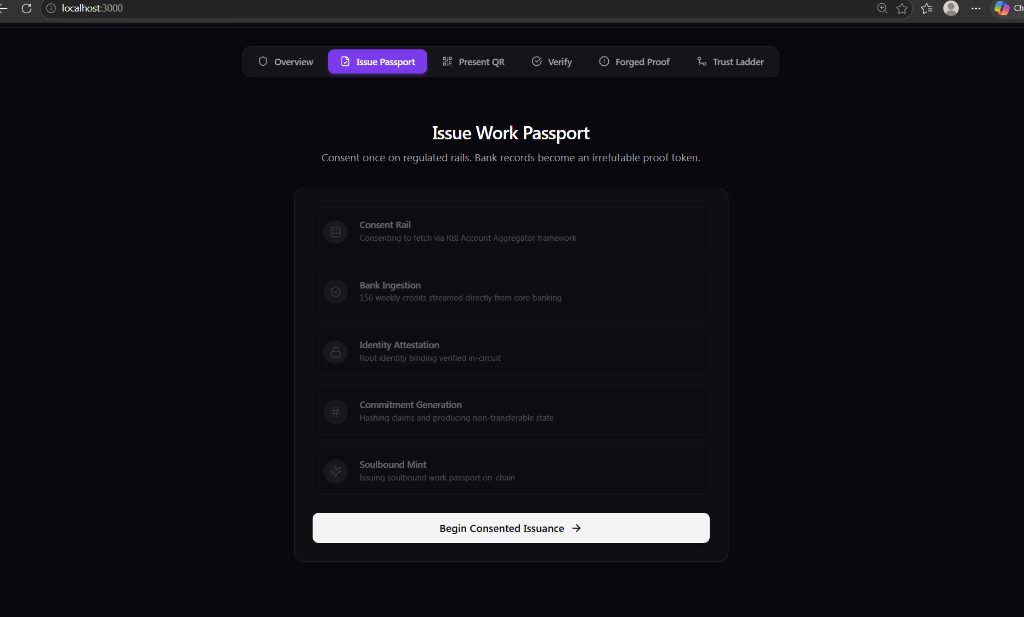
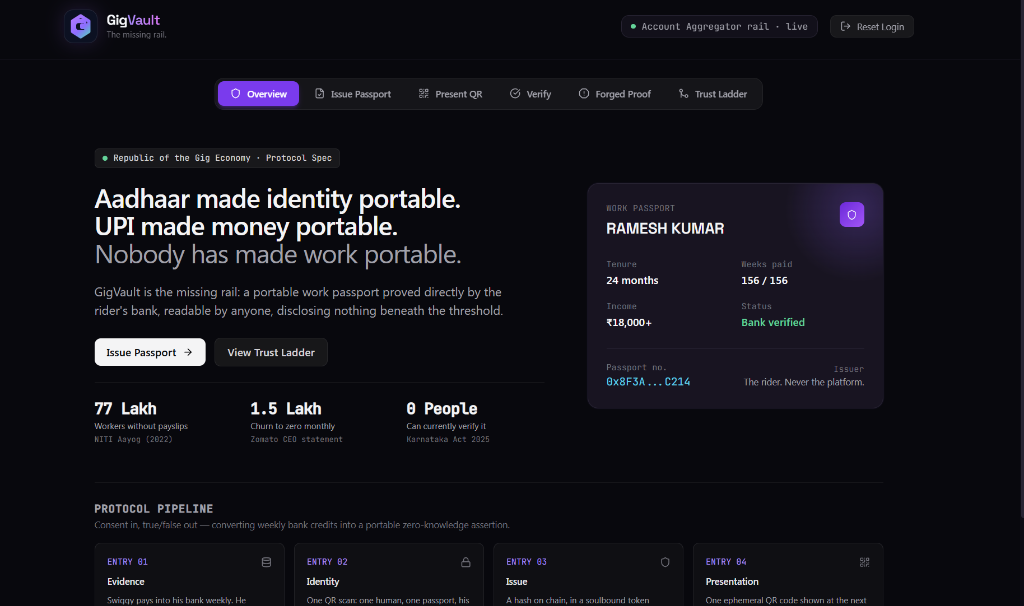
Update README with final presentation images

diff --git a/README.md b/README.md
@@ -45,16 +45,22 @@ GigVault addresses the core challenges of trust, privacy, and frictionless onboa
   <img src="./docs/dashboard.png" width="800" alt="GigVault Dashboard" />
 </p>
 
-### Present Work Passport
-> *The user can present a time-limited ephemeral QR code or direct on-chain Passport ID to verifiers.*
+### Issue Work Passport (Consent Rail)
+> *The user issues a cryptographic Work Passport specifying which credentials to share.*
 <p align="center">
-  <img src="./docs/present.png" width="800" alt="Present QR" />
+  <img src="./docs/issue-1.png" width="800" alt="Issue Work Passport" />
 </p>
 
-### Verifier Terminal
-> *Verifiers can scan the ephemeral QR or query the on-chain Passport ID to instantly cryptographically verify the user's credentials.*
+### Bank Transaction History
+> *Derived income metrics are extracted locally without exposing raw bank statements.*
 <p align="center">
-  <img src="./docs/verify.png" width="800" alt="Verifier Terminal" />
+  <img src="./docs/issue-2.png" width="800" alt="Bank Transaction History" />
+</p>
+
+### Present Work Passport
+> *The user successfully mints and presents a time-limited ephemeral QR code or direct on-chain Passport ID to verifiers.*
+<p align="center">
+  <img src="./docs/issue-3.png" width="800" alt="Minted Work Passport" />
 </p>
 
 ---
